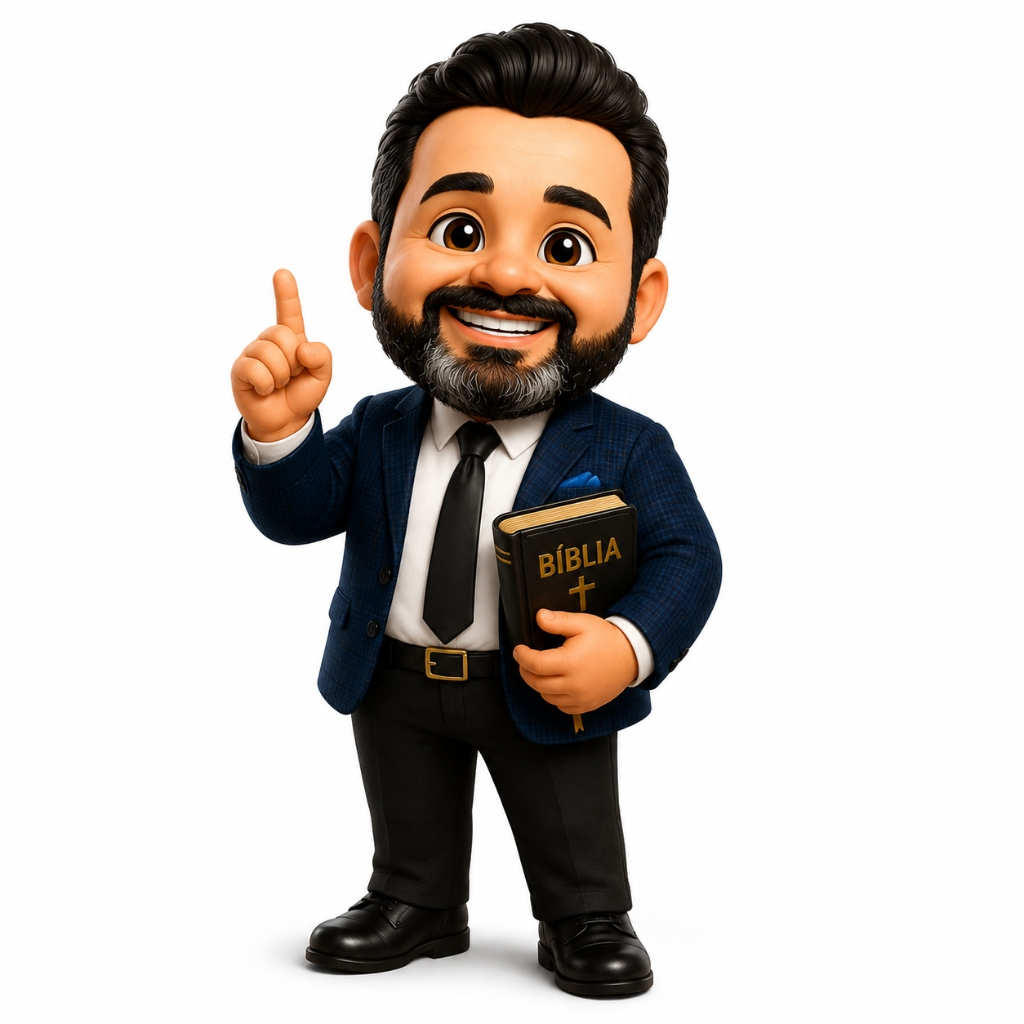
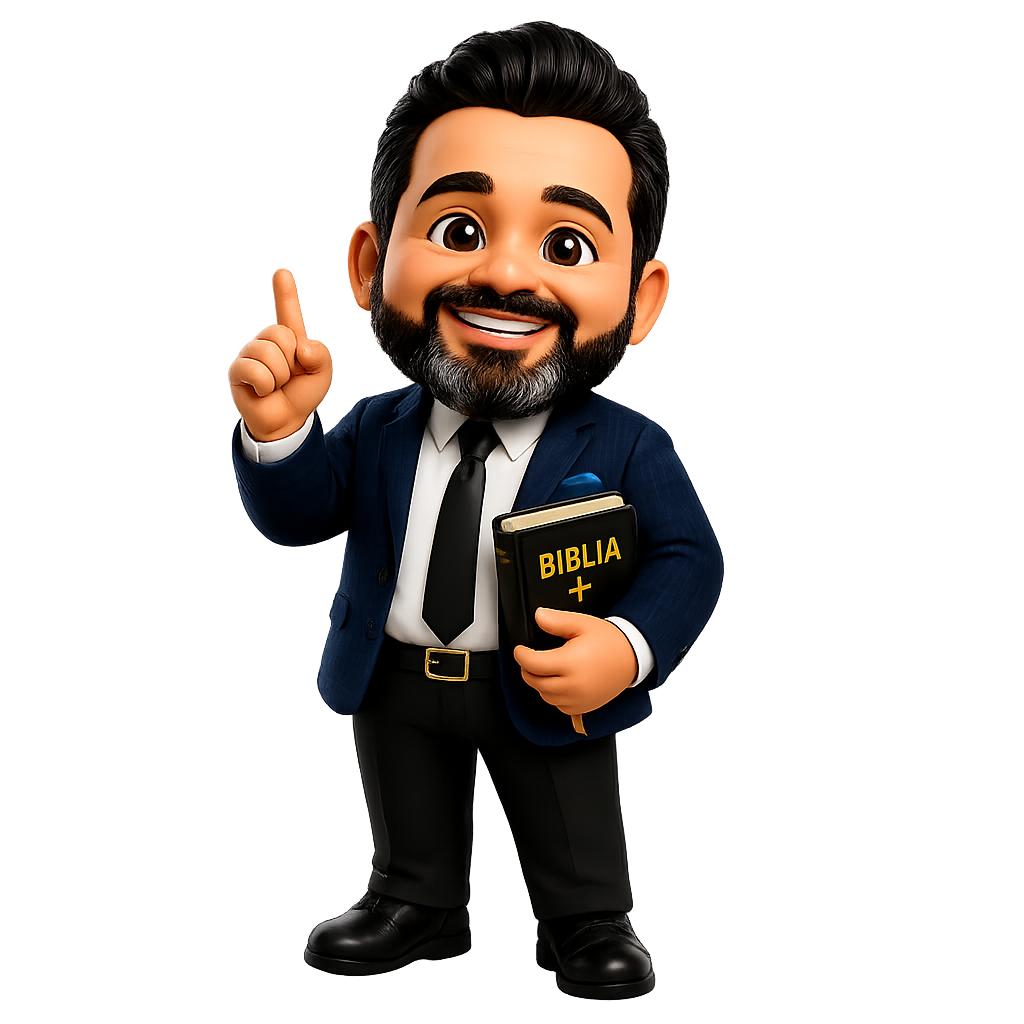
Fix Google Drive CORS issues on Flutter Web using images.weserv.nl proxy

diff --git a/lib/features/home/admin_screen.dart b/lib/features/home/admin_screen.dart
@@ -1,6 +1,7 @@
 import 'package:flutter/material.dart';
 import '../../core/theme/app_colors.dart';
 import '../../core/db/database_helper.dart';
+import '../../core/components/image_helper.dart';
 import 'package:cloud_firestore/cloud_firestore.dart';
 import 'package:firebase_core/firebase_core.dart';
 import 'package:firebase_auth/firebase_auth.dart';
@@ -365,16 +366,7 @@ class _AdminScreenState extends State<AdminScreen> {
                     },
                     child: Builder(
                       builder: (context) {
-                        String directUrl = '';
-                        if (fotoUrl.contains('drive.google.com')) {
-                          final regExp = RegExp(r'\/d\/([a-zA-Z0-9-_]+)');
-                          final match = regExp.firstMatch(fotoUrl);
-                          if (match != null && match.groupCount >= 1) {
-                            directUrl = 'https://drive.google.com/uc?export=view&id=${match.group(1)}';
-                          }
-                        } else {
-                          directUrl = fotoUrl;
-                        }
+                        String directUrl = ImageHelper.getProxiedImageUrl(fotoUrl);
                         
                         return Container(
                           width: 56,
@@ -540,7 +532,7 @@ class _AdminScreenState extends State<AdminScreen> {
               radius: 24,
               backgroundColor: AppColors.azulCeleste.withOpacity(0.2),
               backgroundImage: student.photoUrl != null && student.photoUrl!.isNotEmpty
-                  ? NetworkImage(student.photoUrl!)
+                  ? NetworkImage(ImageHelper.getProxiedImageUrl(student.photoUrl))
                   : null,
               child: student.photoUrl == null || student.photoUrl!.isEmpty
                   ? Text(student.name[0].toUpperCase(), style: const TextStyle(fontWeight: FontWeight.bold, color: AppColors.azulCeleste))

diff --git a/lib/core/components/image_helper.dart b/lib/core/components/image_helper.dart
@@ -1,0 +1,43 @@
+class ImageHelper {
+  /// Converts a URL (especially Google Drive/Google User Content) to a direct, CORS-friendly URL.
+  /// Uses images.weserv.nl as a reliable proxy to bypass browser CORS restrictions on Flutter Web.
+  static String getProxiedImageUrl(String? url) {
+    if (url == null || url.trim().isEmpty) return '';
+    
+    final trimmed = url.trim();
+    
+    // Handle Google Drive / User Content links
+    if (trimmed.contains('drive.google.com') || trimmed.contains('googleusercontent.com')) {
+      String fileId = '';
+      
+      // Matches /file/d/[ID]/view or similar
+      final regExpFile = RegExp(r'/file/d/([a-zA-Z0-9_-]+)');
+      final matchFile = regExpFile.firstMatch(trimmed);
+      if (matchFile != null && matchFile.groupCount >= 1) {
+        fileId = matchFile.group(1)!;
+      } else {
+        // Matches ?id=[ID] or &id=[ID]
+        final regExpId = RegExp(r'[?&]id=([a-zA-Z0-9_-]+)');
+        final matchId = regExpId.firstMatch(trimmed);
+        if (matchId != null && matchId.groupCount >= 1) {
+          fileId = matchId.group(1)!;
+        } else {
+          // Matches /d/[ID] (for lh3.googleusercontent.com/d/ID)
+          final regExpContent = RegExp(r'/d/([a-zA-Z0-9_-]+)');
+          final matchContent = regExpContent.firstMatch(trimmed);
+          if (matchContent != null && matchContent.groupCount >= 1) {
+            fileId = matchContent.group(1)!;
+          }
+        }
+      }
+      
+      if (fileId.isNotEmpty) {
+        // We use images.weserv.nl which is a Cloudflare-backed open source image proxy.
+        // It bypasses CORS perfectly on Flutter Web and caches images for fast loading.
+        return 'https://images.weserv.nl/?url=drive.google.com/uc?export=view%26id=$fileId';
+      }
+    }
+    
+    return trimmed;
+  }
+}

diff --git a/lib/features/roulette/screens/roulette_screen.dart b/lib/features/roulette/screens/roulette_screen.dart
@@ -4,6 +4,7 @@ import 'package:flutter/material.dart';
 import 'package:flutter_fortune_wheel/flutter_fortune_wheel.dart';
 import '../../../core/theme/app_colors.dart';
 import '../../../core/db/database_helper.dart';
+import '../../../core/components/image_helper.dart';
 import 'package:shared_preferences/shared_preferences.dart';
 
 class RouletteScreen extends StatefulWidget {
@@ -99,7 +100,7 @@ class _RouletteScreenState extends State<RouletteScreen> {
                 if (winnerObj is! String && winnerObj.photoUrl != null && winnerObj.photoUrl!.isNotEmpty)
                   CircleAvatar(
                     radius: 40,
-                    backgroundImage: NetworkImage(winnerObj.photoUrl!) as ImageProvider,
+                    backgroundImage: NetworkImage(ImageHelper.getProxiedImageUrl(winnerObj.photoUrl)) as ImageProvider,
                   ),
                 const SizedBox(height: 16),
                 Text(
@@ -245,7 +246,7 @@ class _RouletteScreenState extends State<RouletteScreen> {
           if (item.photoUrl != null && item.photoUrl!.isNotEmpty) ...[
             CircleAvatar(
               radius: 12,
-              backgroundImage: NetworkImage(item.photoUrl!) as ImageProvider,
+               backgroundImage: NetworkImage(ImageHelper.getProxiedImageUrl(item.photoUrl)) as ImageProvider,
             ),
             const SizedBox(width: 8),
           ],

diff --git a/lib/features/teams/screens/teams_screen.dart b/lib/features/teams/screens/teams_screen.dart
@@ -1,6 +1,7 @@
 import 'package:flutter/material.dart';
 import '../../../core/theme/app_colors.dart';
 import '../../../core/db/database_helper.dart';
+import '../../../core/components/image_helper.dart';
 import '../models/team.dart';
 import '../../students/models/student.dart';
 import 'package:shared_preferences/shared_preferences.dart';
@@ -323,7 +324,7 @@ class _TeamsScreenState extends State<TeamsScreen> {
                                   labelStyle: const TextStyle(fontSize: 11, fontWeight: FontWeight.w600),
                                   avatar: CircleAvatar(
                                     backgroundImage: s.photoUrl != null && s.photoUrl!.isNotEmpty
-                                        ? NetworkImage(s.photoUrl!)
+                                        ? NetworkImage(ImageHelper.getProxiedImageUrl(s.photoUrl))
                                         : null,
                                     child: s.photoUrl == null || s.photoUrl!.isEmpty
                                         ? Text(s.name[0].toUpperCase(), style: const TextStyle(fontSize: 10))

diff --git a/lib/features/students/screens/chamada_screen.dart b/lib/features/students/screens/chamada_screen.dart
@@ -2,6 +2,7 @@ import 'package:flutter/material.dart';
 import '../../../core/theme/app_colors.dart';
 import '../models/student.dart';
 import '../../../core/db/database_helper.dart';
+import '../../../core/components/image_helper.dart';
 import 'package:shared_preferences/shared_preferences.dart';
 
 class ChamadaScreen extends StatefulWidget {
@@ -214,7 +215,7 @@ class _ChamadaScreenState extends State<ChamadaScreen> {
                       radius: 36,
                       backgroundColor: Colors.white,
                       backgroundImage: student.photoUrl != null && student.photoUrl!.isNotEmpty
-                          ? NetworkImage(student.photoUrl!) as ImageProvider
+                          ? NetworkImage(ImageHelper.getProxiedImageUrl(student.photoUrl)) as ImageProvider
                           : student.avatarPath != null
                               ? AssetImage(student.avatarPath!) as ImageProvider
                               : null,

diff --git a/lib/features/home/home_screen.dart b/lib/features/home/home_screen.dart
@@ -14,6 +14,7 @@ import '../auth/screens/login_screen.dart';
 import '../ai_planner/models/lesson_plan.dart';
 import '../../core/db/database_helper.dart';
 import '../../core/theme/app_colors.dart';
+import '../../core/components/image_helper.dart';
 
 /// Tela Principal com Navegação Reativa e Dashboard Premium Fiel ao Estilo Apple
 class HomeScreen extends StatefulWidget {
@@ -331,15 +332,7 @@ class DashboardContent extends StatelessWidget {
   }
 
   String _getDirectImageUrl(String url) {
-    if (url.contains('drive.google.com')) {
-      final regExp = RegExp(r'\/d\/([a-zA-Z0-9-_]+)');
-      final match = regExp.firstMatch(url);
-      if (match != null && match.groupCount >= 1) {
-        final fileId = match.group(1);
-        return 'https://drive.google.com/uc?export=view&id=$fileId';
-      }
-    }
-    return url;
+    return ImageHelper.getProxiedImageUrl(url);
   }
 
   // --- HEADER SUPERIOR ---
